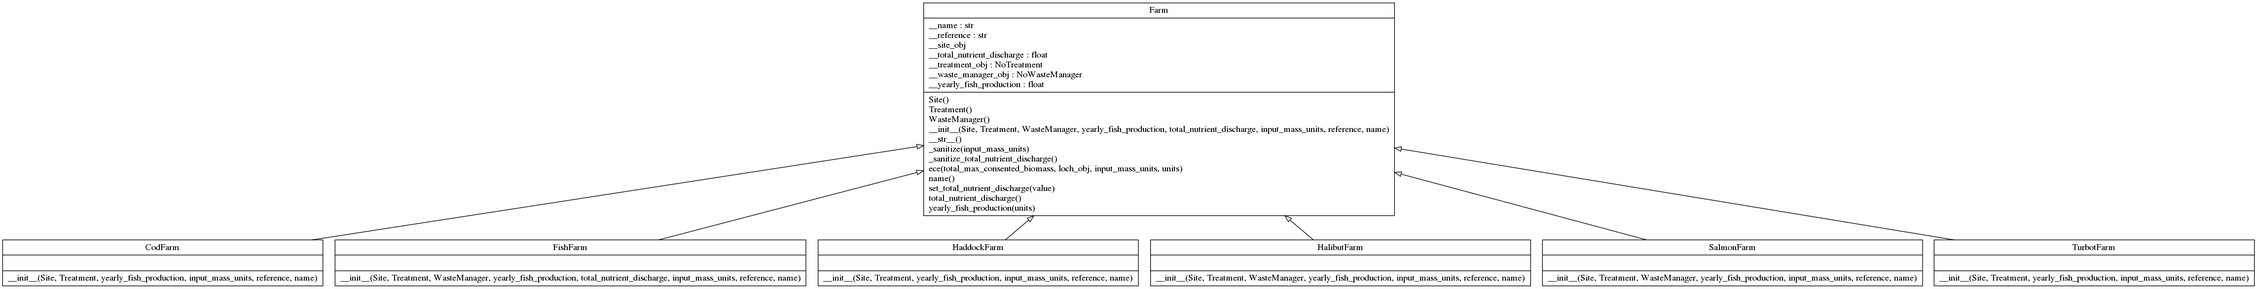
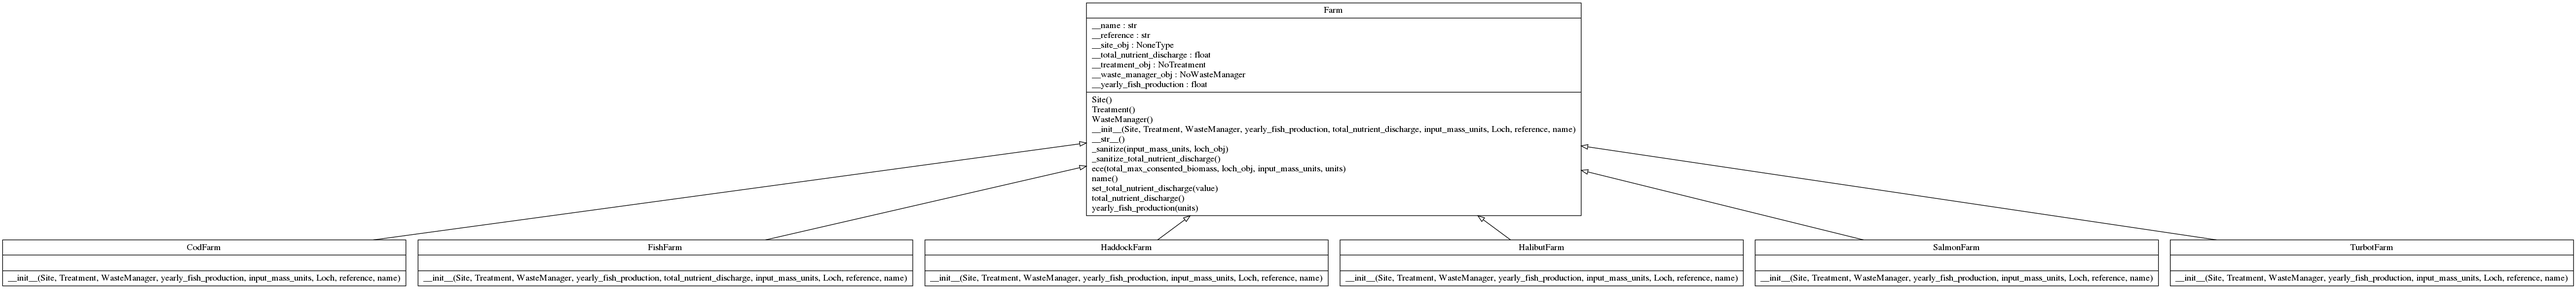
Nutrients module: during the instantiation of a Farm object, the Site input argument can be replaced by the Loch object. The loch's GeoJSON polygon coordinates will be averaged and stored in Farm. This location will be used in post to mark the location on the minimap of the terrain maps

diff --git a/claws/farms.py b/claws/farms.py
@@ -22,52 +22,59 @@ __status__ = "Production"
 # ---------------------------------------------------------------------------- #
 
 class FishFarm(Farm):
-    def __init__(self, Site, Treatment=NoTreatment(),
+    def __init__(self, Site=None, Treatment=NoTreatment(),
                  WasteManager=NoWasteManager(), yearly_fish_production=0.0,
-                 total_nutrient_discharge=0.0, input_mass_units='kg',
+                 total_nutrient_discharge=0.0, input_mass_units='kg', Loch=None,
                  reference="", name=""):
         super().__init__(Site=Site, Treatment=Treatment,
+                         WasteManager=WasteManager,
                          yearly_fish_production=yearly_fish_production,
                          total_nutrient_discharge=total_nutrient_discharge,
-                         input_mass_units=input_mass_units, reference=reference,
-                         name=name)
+                         input_mass_units=input_mass_units,
+                         Loch=Loch, reference=reference, name=name)
                          
 class SalmonFarm(Farm):
-    def __init__(self, Site, Treatment, WasteManager=NoWasteManager(),
-                 yearly_fish_production=0.0, input_mass_units='kg',
-                 reference="", name=""):
+    def __init__(self, Site=None, Treatment=NoTreatment(),
+                 WasteManager=NoWasteManager(), yearly_fish_production=0.0,
+                 input_mass_units='kg', Loch=None, reference="", name=""):
         super().__init__(Site=Site, Treatment=Treatment,
+                         WasteManager=WasteManager,
                          yearly_fish_production=yearly_fish_production,
                          total_nutrient_discharge=
                              total_nutrient_discharge["salmon"],
-                         input_mass_units=input_mass_units, reference=reference,
-                         name=name)
+                         input_mass_units=input_mass_units, Loch=Loch,
+                         reference=reference, name=name)
                          
 class HalibutFarm(Farm):
-    def __init__(self, Site, Treatment, WasteManager=NoWasteManager(),
-                 yearly_fish_production=0.0, input_mass_units='kg',
-                 reference="", name=""):
+    def __init__(self, Site=None, Treatment=NoTreatment(),
+                 WasteManager=NoWasteManager(), yearly_fish_production=0.0,
+                 input_mass_units='kg', Loch=None, reference="", name=""):
         super().__init__(Site=Site, Treatment=Treatment,
+                         WasteManager=WasteManager,
                          yearly_fish_production=yearly_fish_production,
                          total_nutrient_discharge=
                              total_nutrient_discharge["halibut"],
-                         input_mass_units=input_mass_units, reference=reference,
-                         name=name)
+                         input_mass_units=input_mass_units, Loch=Loch,
+                         reference=reference, name=name)
                          
 class TurbotFarm(Farm):
-    def __init__(self, Site, Treatment, yearly_fish_production=0.0,
-                 input_mass_units='kg', reference="", name=""):
+    def __init__(self, Site=None, Treatment=NoTreatment(),
+                 WasteManager=NoWasteManager(), yearly_fish_production=0.0,
+                 input_mass_units='kg', Loch=None, reference="", name=""):
         super().__init__(Site=Site, Treatment=Treatment,
+                         WasteManager=WasteManager,
                          yearly_fish_production=yearly_fish_production,
                          total_nutrient_discharge=
                              total_nutrient_discharge["turbot"],
-                         input_mass_units=input_mass_units, reference=reference,
-                         name=name)
+                         input_mass_units=input_mass_units, Loch=Loch,
+                         reference=reference, name=name)
                          
 class CodFarm(Farm):
-    def __init__(self, Site, Treatment, yearly_fish_production=0.0,
-                 input_mass_units='kg', reference="", name=""):
+    def __init__(self, Site=None, Treatment=NoTreatment(),
+                 WasteManager=NoWasteManager(), yearly_fish_production=0.0,
+                 input_mass_units='kg', Loch=None, reference="", name=""):
         super().__init__(Site=Site, Treatment=Treatment,
+                         WasteManager=WasteManager,
                          yearly_fish_production=yearly_fish_production,
                          total_nutrient_discharge=
                              total_nutrient_discharge["cod"],
@@ -75,11 +82,13 @@ class CodFarm(Farm):
                          name=name)
                          
 class HaddockFarm(Farm):
-    def __init__(self, Site, Treatment, yearly_fish_production=0.0,
-                 input_mass_units='kg', reference="", name=""):
+    def __init__(self, Site=None, Treatment=NoTreatment(),
+                 WasteManager=NoWasteManager(), yearly_fish_production=0.0,
+                 input_mass_units='kg', Loch=None, reference="", name=""):
         super().__init__(Site=Site, Treatment=Treatment,
+                         WasteManager=WasteManager,
                          yearly_fish_production=yearly_fish_production,
                          total_nutrient_discharge=
                              total_nutrient_discharge["haddock"],
-                         input_mass_units=input_mass_units, reference=reference,
-                         name=name)
+                         input_mass_units=input_mass_units, Loch=Loch,
+                         reference=reference, name=name)

diff --git a/claws/farm.py b/claws/farm.py
@@ -8,6 +8,7 @@ import numpy as np
 
 from claws.custom_exceptions import InputError
 from claws.helpers import *
+from claws.loch import Loch
 from claws.treatments import NoTreatment
 from claws.waste_managers import NoWasteManager
 
@@ -60,9 +61,9 @@ def nutrient_enhancement_index(ECE):
 # ---------------------------------------------------------------------------- #
 
 class Farm(object):
-    def __init__(self, Site, Treatment=NoTreatment(),
+    def __init__(self, Site=None, Treatment=NoTreatment(),
                  WasteManager=NoWasteManager(), yearly_fish_production=0.0,
-                 total_nutrient_discharge=0.0, input_mass_units='kg',
+                 total_nutrient_discharge=0.0, input_mass_units='kg', Loch=None,
                  reference="", name=""):
         # __name: string; Farm name. default is class name
         self.__name = name
@@ -82,7 +83,7 @@ class Farm(object):
         # __reference: string; Reference. default: empty string
         self.__reference = reference
         
-        self._sanitize(input_mass_units)
+        self._sanitize(input_mass_units, Loch)
         
     def __str__(self):
         return """{}\n\tSite = {}\n\tTreatment = {}\n\tWaste manager = {}\
@@ -94,6 +95,9 @@ class Farm(object):
             self.yearly_fish_production('tonne'),
             self.__total_nutrient_discharge, self.__reference)
     
+    def name(self):
+        return self.__name
+        
     def Site(self):
         return self.__site_obj
         
@@ -119,7 +123,7 @@ class Farm(object):
             raise InputError(self.__total_nutrient_discharge,
                 "Farm's total nutrient discharge should be a positive number")
     
-    def _sanitize(self, input_mass_units):
+    def _sanitize(self, input_mass_units, loch_obj):
         if not self.__name:
             self.__name = ' '.join(re.findall('([A-Z][a-z]+)',
                                    type(self).__name__))
@@ -134,10 +138,17 @@ class Farm(object):
         # Yearly fish production stored in kg
         self.__yearly_fish_production = convert_mass_to_prog_units(
             self.__yearly_fish_production, input_mass_units, self.name())
+            
+        if self.__site_obj is None:
+            if (type(loch_obj) == Loch and
+                    loch_obj.averaged_coordinates() is not None):
+                self.__site_obj = loch_obj.averaged_coordinates()
+            else:
+                raise InputError(self.__site_obj, "The farm location is a "\
+                    "mandatory input: it can either be a Site or a loch's "\
+                    "averaged location, provided that the Loch object is "\
+                    "passed a GeoJSON polygon")
                 
-    def name(self):
-        return self.__name
-        
     def ece(self, total_max_consented_biomass, loch_obj,
             input_mass_units='tonne', units='umol/L'):
         """Return the equilibrium concentration enhancement (ECE) for nitrogen

diff --git a/claws/loch.py b/claws/loch.py
@@ -10,6 +10,7 @@ import numpy as np
 
 from claws.custom_exceptions import InputError
 from claws.helpers import *
+from claws.site import Site
 
 __author__ = "Vincent Casseau and Tom Scanlon"
 __copyright__ = "Copyright 2022, MTS-CFD Ltd."
@@ -48,6 +49,7 @@ class Loch(object):
         # __geojson_file: string; File storing a GeoJSON polygon to define the 
         # geographical extent of the loch. default is empty string
         self.__geojson_file = geojson_file
+        self.__geojson_polygon = None
         # __existing_biomass: float; Existing nitrogen biomass in kg.
         # default is 0
         self.__existing_biomass = existing_biomass
@@ -86,17 +88,37 @@ class Loch(object):
         return self.__geojson_polygon
         
     def geojson_polygon_geometry(self):
-        return self.__geojson_polygon['geometry']
+        if self.__geojson_polygon is not None:
+            return self.__geojson_polygon['geometry']
+        return None
+        
+    def geojson_polygon_geometry_coords(self):
+        if self.__geojson_polygon is not None:
+            return self.__geojson_polygon['geometry']['coordinates'][0]
+        return None
+        
+    def averaged_coordinates(self):
+        if self.__geojson_polygon is not None:
+            coords = self.geojson_polygon_geometry_coords()
+            lons = [pt[0] for pt in coords]
+            lats = [pt[1] for pt in coords]
+            return Site(name=self.name(), longitude=np.mean(lons),
+                        latitude=np.mean(lats),
+                        reference="{}'s GeoJSON polygon".format(self.name()))
+        return None
         
     def geojson_polygon_properties(self):
-        return self.__geojson_polygon['properties']
+        if self.__geojson_polygon is not None:
+            return self.__geojson_polygon['properties']
+        return None
     
     def existing_biomass(self, units='tonne'):
-        return convert_mass(self.__existing_biomass, units, self.name())  
+        return convert_mass(self.__existing_biomass, units, self.name())
         
     def set_geojson_polygon_properties(self, input_dict):
-        for key, value in input_dict.items():
-            self.__geojson_polygon['properties'][key] = value
+        if self.__geojson_polygon is not None:
+            for key, value in input_dict.items():
+                self.__geojson_polygon['properties'][key] = value
         
     def _sanitize(self, input_len_units, input_area_units, input_vol_units,
                   input_mass_units):
@@ -181,7 +203,8 @@ class Loch(object):
             self.__existing_biomass, input_mass_units, self.name())
         
     def set_GeoJSON_properties(self, units='m'):
-        self.__geojson_polygon['properties']
+        if self.__geojson_polygon is not None:
+            self.__geojson_polygon['properties']
     
     def aze(self, units='m^2'):
         """Allowable zone of effect (AZE) of the Loch

diff --git a/claws/site.py b/claws/site.py
@@ -107,13 +107,13 @@ class Site(object):
         if self.__lon is not None:
             self.__input_coordinate_system = 'Geographic'
             
-            assert(type(self.__lon) in [int, float])
+            assert(type(self.__lon) in [int, float, np.float64])
             if abs(self.__lon) > 90.0:
                 raise InputError(self.__lon, 
                     "Longitude of Site {} must be comprised between -90 deg "\
                         "and +90 deg".format(self.name()))
             
-            assert(type(self.__lat) in [int, float])
+            assert(type(self.__lat) in [int, float, np.float64])
             if abs(self.__lat) > 90.0:
                 raise InputError(self.__lat, 
                     "Latitude of Site {} must be comprised between -90 deg "\

diff --git a/claws/lochs.py b/claws/lochs.py
@@ -73,7 +73,7 @@ class LochDuich(Loch):
 class LochHourn(Loch):
     def __init__(self, existing_biomass=0.0, input_mass_units='tonne'):
         super().__init__(area=33.7, tidal_range=4.2, volume=2005.5,
-                         mean_depth=59.5,
+                         mean_depth=59.5, existing_biomass=existing_biomass,
                          reference=_refEdwardsSharples + "p. 133")
             
 class LochLinnhe(Loch):
